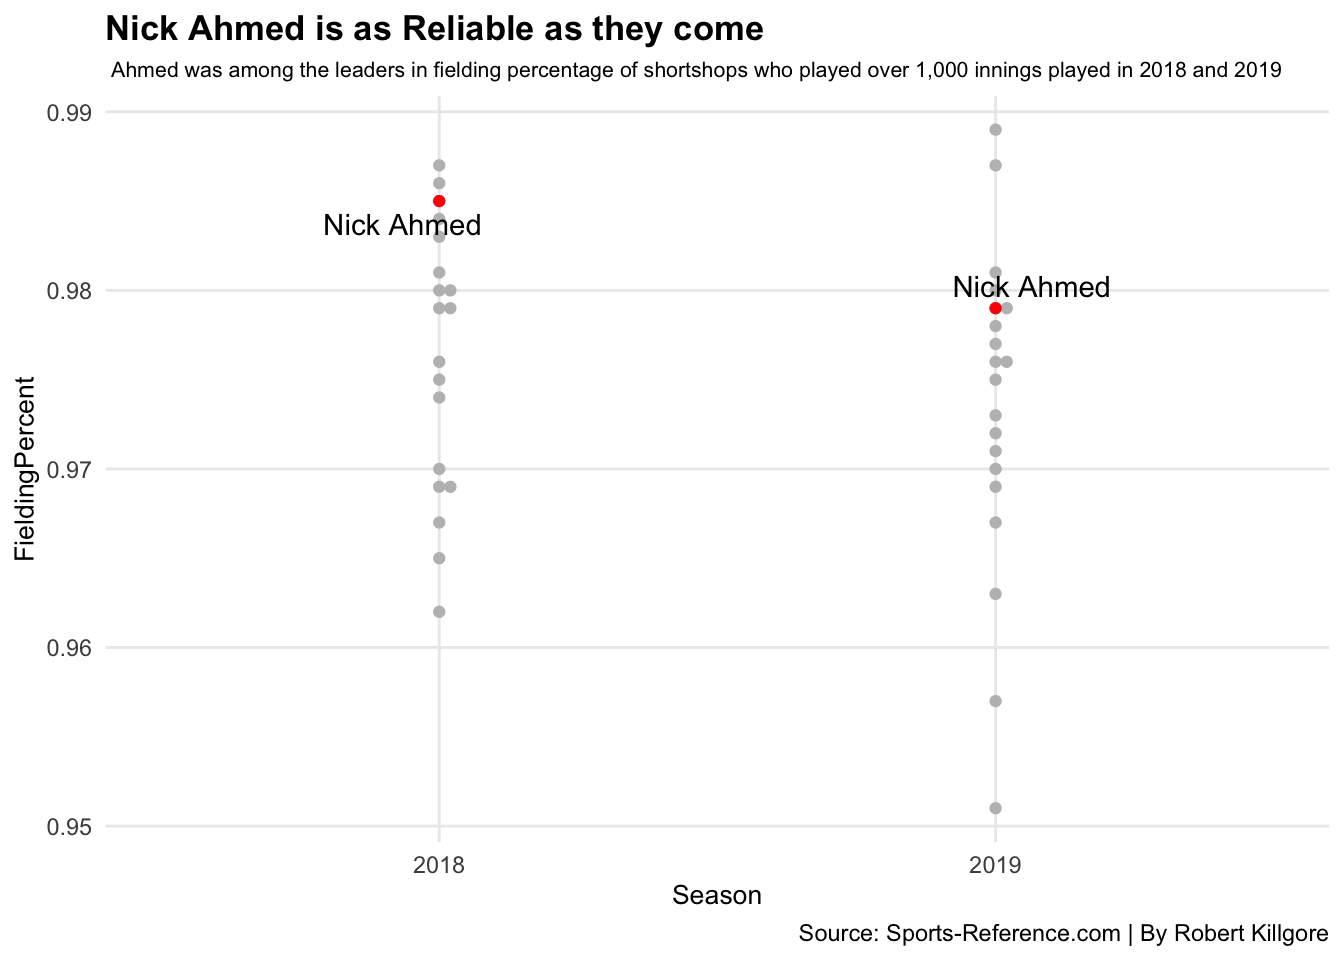
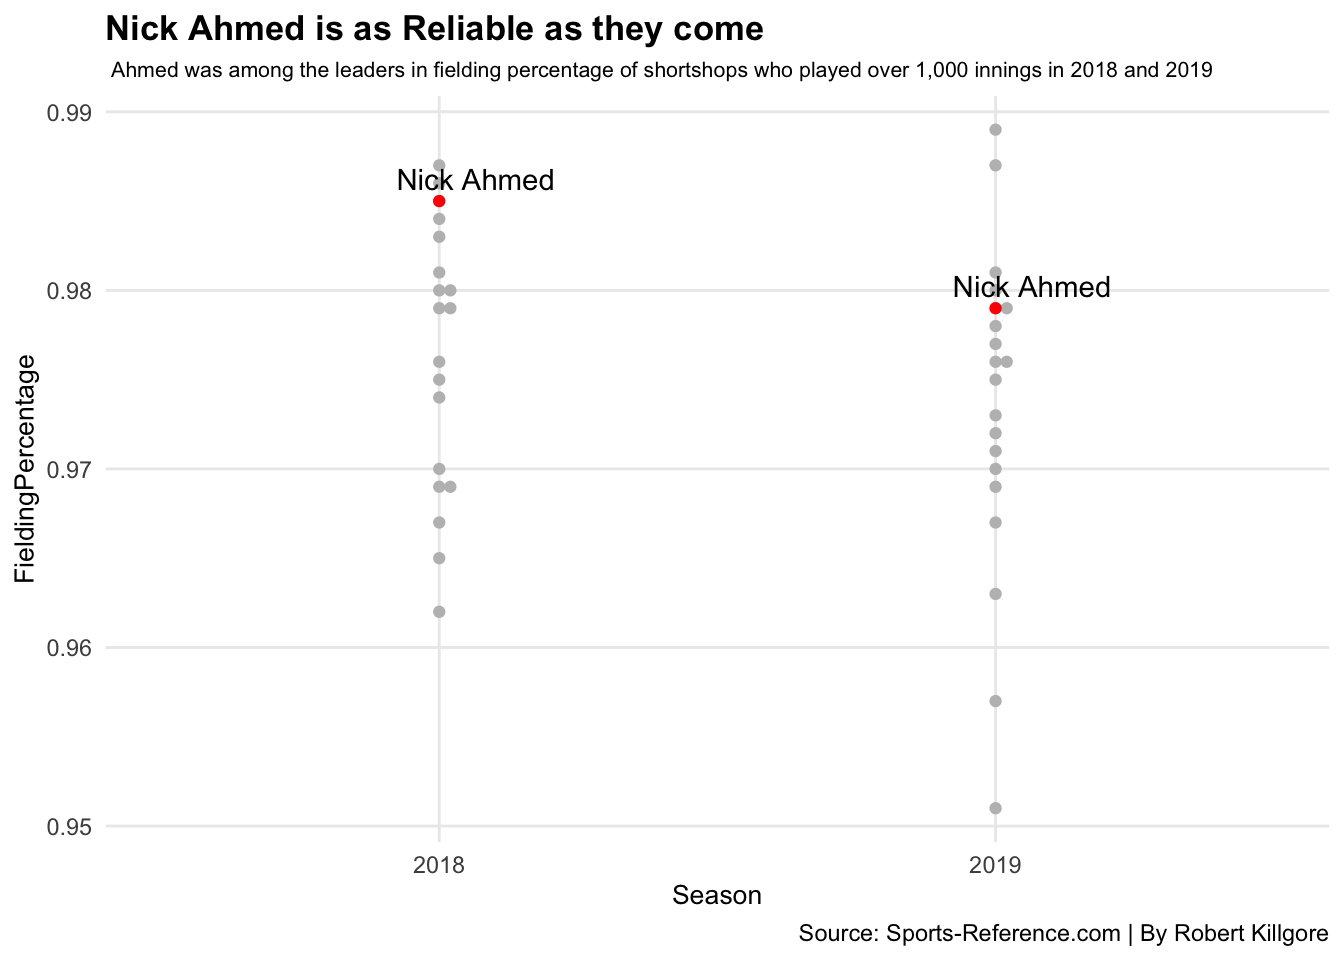
Commit

Changed region(s): [[0.25, 0.1562, 0.4062, 0.25], [0.0, 0.375, 0.0312, 0.5938], [0.7812, 0.0625, 0.9688, 0.0938]]

diff --git a/2021/04/21/is-nick-ahmed-the-best-defensive-shortshop-in-basbeall/index.html b/2021/04/21/is-nick-ahmed-the-best-defensive-shortshop-in-basbeall/index.html
@@ -62,7 +62,7 @@
 
   <article class="article">
     
-    <span class="article-duration">5 min read</span>
+    <span class="article-duration">6 min read</span>
     
 
     <h1 class="article-title">Is Nick Ahmed the best defensive shortshop in baseball?</h1>
@@ -76,7 +76,7 @@
 <script src="/2021/04/21/is-nick-ahmed-the-best-defensive-shortshop-in-basbeall/index_files/header-attrs/header-attrs.js"></script>
 
 
-<p>Nick Ahmed debuted for the Arizona Diamondbacks in 2014, blossoming into a two time Gold Glove winner and becoming the Diamondbacks everyday shortshop. Let’s see if he is the best defensive shortshop in baseball using shortshop fielding data from the last four seasons.</p>
+<p>Nick Ahmed debuted for the Arizona Diamondbacks in 2014, blossoming into a two time Gold Glove winner and becoming the Diamondbacks everyday shortstop. Let’s see if he is the best defensive shortshop in baseball using shortstop fielding data from the last four seasons.</p>
 <pre class="r"><code>library(tidyverse)</code></pre>
 <pre><code>## ── Attaching packages ─────────────────────────────────────── tidyverse 1.3.1 ──</code></pre>
 <pre><code>## ✓ ggplot2 3.3.3     ✓ purrr   0.3.4
@@ -107,7 +107,7 @@ library(ggbeeswarm)</code></pre>
 ##   Lg = col_character()
 ## )
 ## ℹ Use `spec()` for the full column specifications.</code></pre>
-<p>Let’s first look at defensive runs saved, a defensive metric which measures the number of runs a player saved or cost his team on defense relative to an average player. The best fielders typically range from 15-20. On our data set from baseball-reference, it is labeled as Rdrs. First I’m going to only include players who played over 50 games to include the shortened 2020 season. Ahmed’s 2017 season will not be included because he was limited to 47 games played after breaking his wrist midway through the season.</p>
+<p>Let’s first look at defensive runs saved, a defensive metric which measures the number of runs a player saved or cost his team on defense. The best fielders typically range from 15-20. On our data set from baseball-reference, it is labeled as Rdrs. First I’m going to only include players who played over 50 games to include the shortened 2020 season. Ahmed’s 2017 season will not be included because he was limited to 47 games played after breaking his wrist midway through the season.</p>
 <pre class="r"><code>Rdrs &lt;- test %&gt;% filter(G&gt;50) %&gt;% group_by(Name, Season)</code></pre>
 <pre class="r"><code>ahmed &lt;- Rdrs %&gt;% filter(Name==&quot;Nick Ahmed&quot;)</code></pre>
 <p>Next, we can create a scatterplot with the eligible players and their defensive runs saved number across the last four seasons</p>
@@ -125,7 +125,7 @@ library(ggbeeswarm)</code></pre>
   )</code></pre>
 <p><img src="/2021/04/21/is-nick-ahmed-the-best-defensive-shortshop-in-basbeall/index_files/figure-html/unnamed-chunk-8-1.png" width="672" /></p>
 <p>In 2018 and 2019, Ahmed led the League in Defensive Runs Saved. Not surprisingly, he won his two Gold Gloves in 2018 and 2019. Even in a shortened 2020 season, he was still among the upper half of the league in Defensive Runs Saved. Interestingly enough, Andrelton Simmons actually had the highest DRS in the past four years with a whopping 41 in 2017. Next, let’s look at fielding percentage.</p>
-<p>The better fielding percentage a player has, the less errors he commits. To get an idea on where Ahmed’s fielding percentage ranks among the everyday shortstops, let’s look at data from 2018 and 2019. In those two seasons he played over 150 games and played well over 1,000 innings.</p>
+<p>The better fielding percentage a player has, the fewer errors he commits. To get an idea on where Ahmed’s fielding percentage ranks among the everyday shortstops, let’s look at data from 2018 and 2019. In those two seasons he played over 150 games and played well over 1,000 innings.</p>
 <pre class="r"><code>eligibleplayers &lt;- test %&gt;% filter(Inn&gt;1000) %&gt;% filter(Season==&quot;2018&quot;| Season== &quot;2019&quot;) %&gt;% mutate(Season=factor(Season,levels = c(&quot;2018&quot;, &quot;2019&quot;)))</code></pre>
 <pre class="r"><code>ahmed &lt;- eligibleplayers %&gt;% filter(Name== &quot;Nick Ahmed&quot;)</code></pre>
 <pre class="r"><code>ggplot() + 
@@ -140,7 +140,7 @@ library(ggbeeswarm)</code></pre>
   geom_text_repel(
     data=ahmed, 
     aes(x=Season, y=`Fld%`, label=Name)) +
-  labs(x=&quot;Season&quot;, y=&quot;FieldingPercent&quot;, title=&quot;Nick Ahmed is as Reliable as they come&quot;, subtitle=&quot; Ahmed was among the leaders in fielding percentage of shortshops who played over 1,000 innings played in 2018 and 2019&quot;, caption=&quot;Source: Sports-Reference.com | By Robert Killgore&quot;) +
+  labs(x=&quot;Season&quot;, y=&quot;FieldingPercentage&quot;, title=&quot;Nick Ahmed is as Reliable as they come&quot;, subtitle=&quot; Ahmed was among the leaders in fielding percentage of shortshops who played over 1,000 innings in 2018 and 2019&quot;, caption=&quot;Source: Sports-Reference.com | By Robert Killgore&quot;) +
   theme_minimal() + 
      theme(
     plot.title = element_text(size = 13, face = &quot;bold&quot;),
@@ -150,7 +150,7 @@ library(ggbeeswarm)</code></pre>
   )</code></pre>
 <p><img src="/2021/04/21/is-nick-ahmed-the-best-defensive-shortshop-in-basbeall/index_files/figure-html/unnamed-chunk-12-1.png" width="672" />
 Ahmed finished the 2018 season with a .985 fielding percentage in 2018 and a .979 fielding percentage, right among the elite shortstops. The Diamondbacks had the luxury of penciling Ahmed in the lineup everyday, knowing he would make few mistakes. The next thing we will look are total innings played, total chanches, and total errors in a bubble chart.</p>
-<p>The first thing we will do to create the bubble chart is to filter for the players who have played over 420 innings to account for the 2020 season like we did before. Like the Defensive Runs Saved chart, Ahmed’s 2017 season will not be included.</p>
+<p>The first thing we will do to create the bubble chart is to filter for the players who have played over 420 innings to account for the 2020 season. Like the Defensive Runs Saved chart, Ahmed’s 2017 season will not be included.</p>
 <pre class="r"><code>goodfielders &lt;- test %&gt;% filter(Inn&gt;420) %&gt;% group_by(Name, Season)</code></pre>
 <p>Next, we will add up the total innings played, total chances and total errors from eligible players from 2018, 2019, and 2020.</p>
 <pre class="r"><code>goodfielders &lt;- test %&gt;% filter(Inn&gt;420) %&gt;% group_by(Name, Season) %&gt;%  summarise(
@@ -183,6 +183,27 @@ Ahmed finished the 2018 season with a .985 fielding percentage in 2018 and a .97
   )</code></pre>
 <p><img src="/2021/04/21/is-nick-ahmed-the-best-defensive-shortshop-in-basbeall/index_files/figure-html/unnamed-chunk-17-1.png" width="672" />
 For the last three seasons, Ahmed has committed the fewest errors among everyday shortshops. The most he had in one season was 13 in 2019, where he played over 1300 innings and still won a Gold Glove. Now that we have shown Ahmed is one of the most trustworthy shortshops in the MLB, let’s see how many runs Ahmed has been worth using the fielding metric Rtot.</p>
+<p>To see how valuable Ahmed has been on the field, I will be finding the top 10 in rtot from the last four seasons. We can do this through a bar chart</p>
+<pre class="r"><code>rtot &lt;- test %&gt;% 
+  group_by(Season) %&gt;%
+  arrange(desc(Rtot)) %&gt;% 
+  top_n(-10) %&gt;% 
+  select(Name, Rtot) %&gt;% 
+  filter(Rtot &gt;= 13)</code></pre>
+<pre><code>## Selecting by Season</code></pre>
+<pre><code>## Adding missing grouping variables: `Season`</code></pre>
+<pre class="r"><code>ggplot() + 
+  geom_bar(data=rtot, aes(x=reorder(Name, Rtot), weight=Rtot)) + 
+  labs(x=&quot;Name&quot;, y=&quot;Rtot(Runs Worth)&quot;, title=&quot;Nick Ahmed has been worth more runs than anybody&quot;, subtitle=&quot;Ahmed was worth 13 runs in 2019 and 22 in 2018&quot;, caption=&quot;Source: Sports-Reference.com | By Robert Killgore&quot;) + theme_minimal() + 
+  coord_flip() + 
+     theme(
+    plot.title = element_text(size = 14, face = &quot;bold&quot;),
+    axis.title = element_text(size = 12), 
+    plot.subtitle = element_text(size=11), 
+    panel.grid.minor = element_blank()
+  ) </code></pre>
+<p><img src="/2021/04/21/is-nick-ahmed-the-best-defensive-shortshop-in-basbeall/index_files/figure-html/unnamed-chunk-21-1.png" width="672" /></p>
+<p>Ahmed finished top 10 in rtot twice in the last four seasons, the only other shortstop accomplishing that feat besides Andrelton Simmons. This chart along with the others show how valuable and elite Ahmed is. The best defensive shortstop in baseball is in the desert and should be more well-known.</p>
 
     </div>
   </article>
